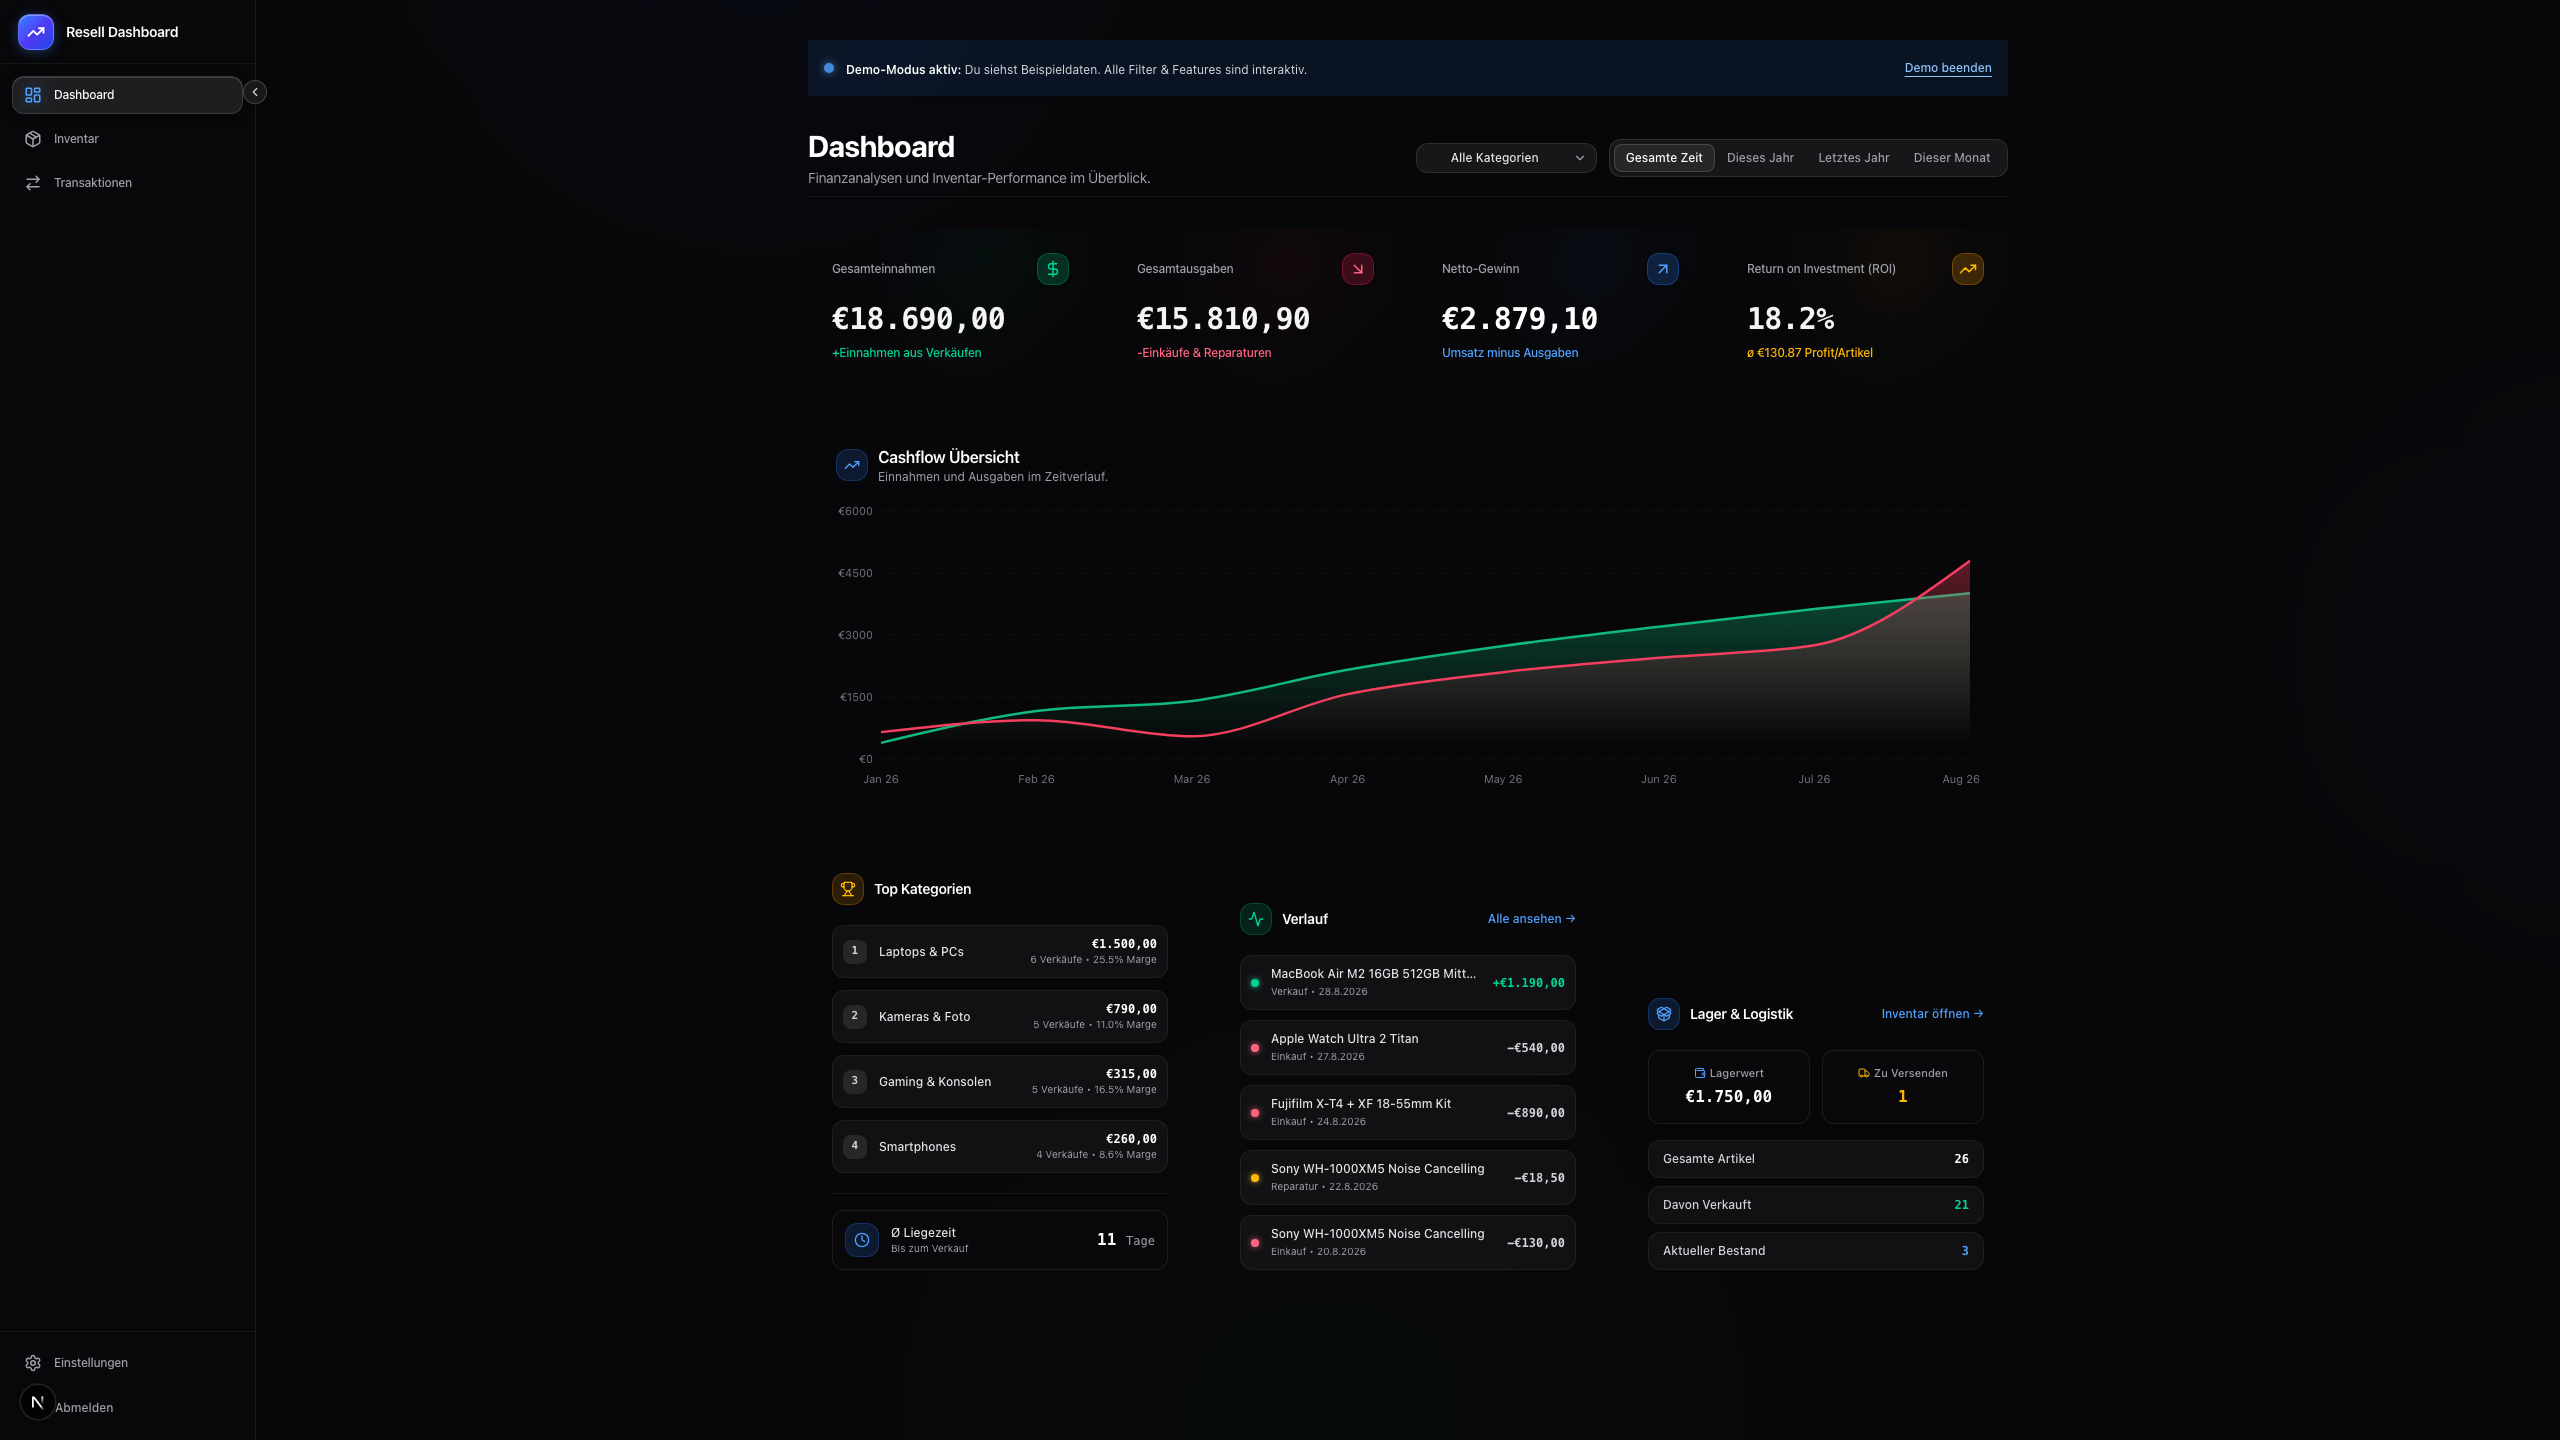
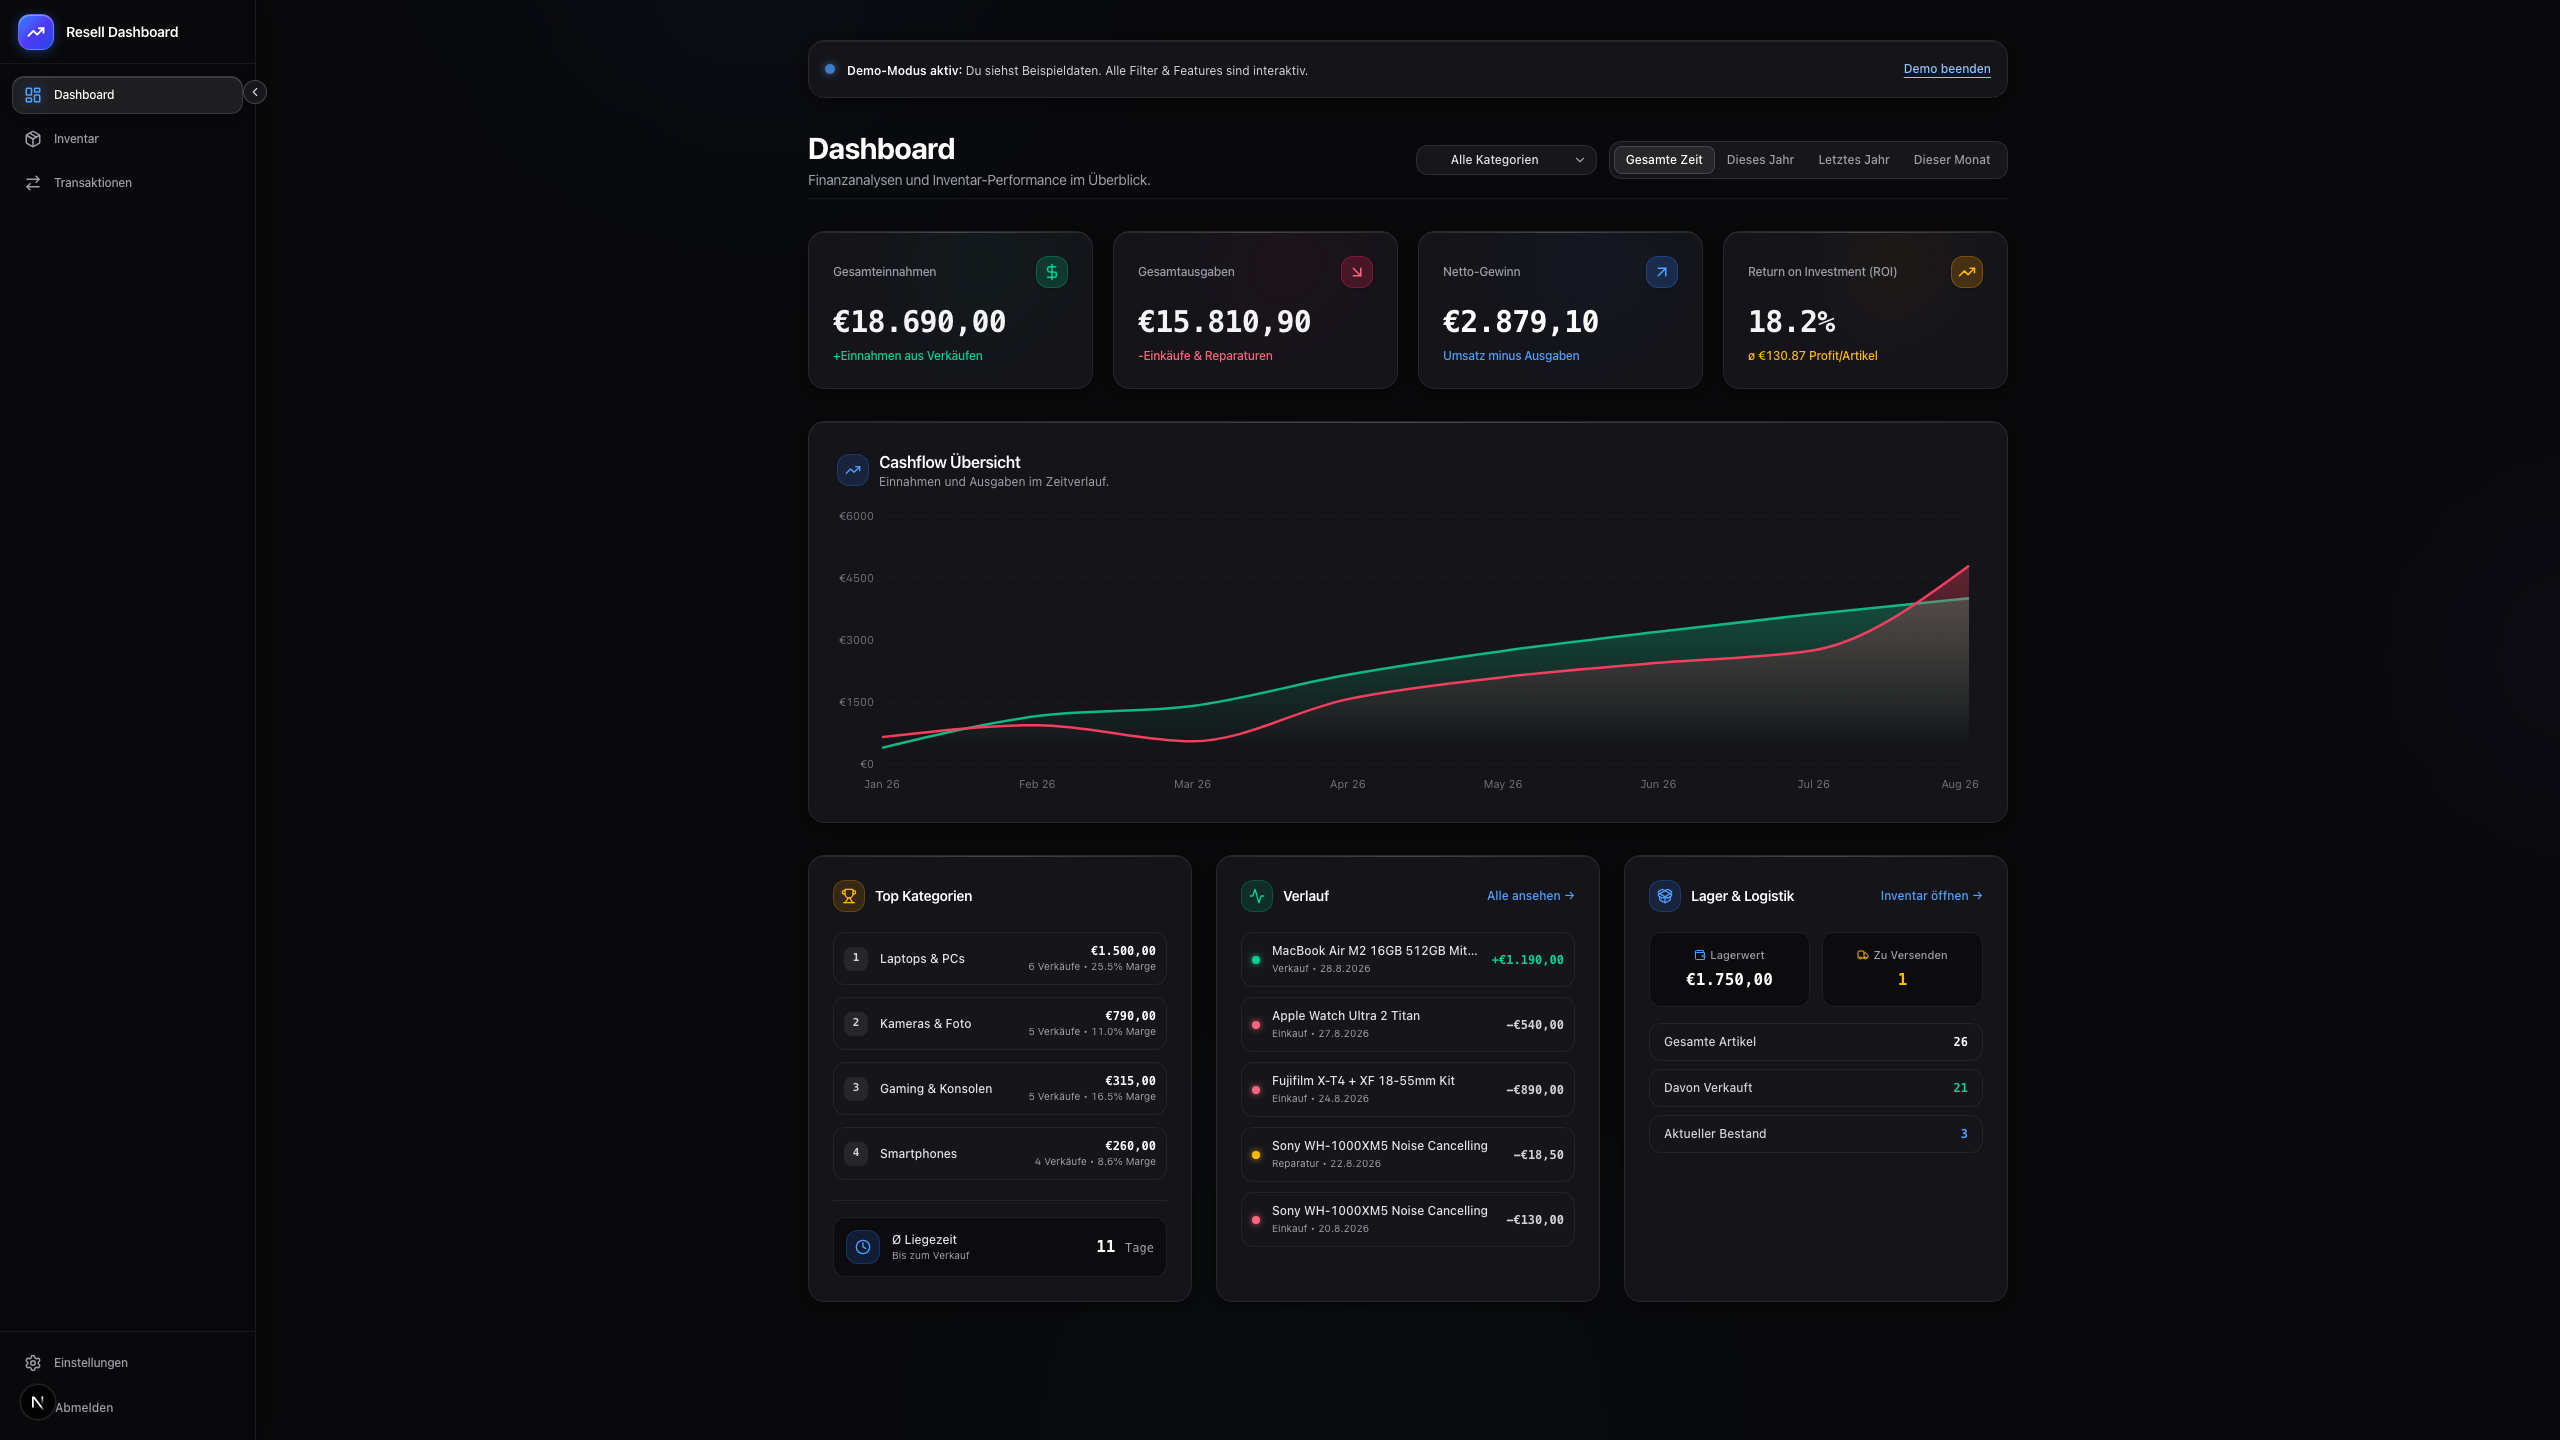
Design Fix: Restore clear card box boundaries, crisp borders, and distinct surface elevation across the dashboard

diff --git a/src/app/globals.css b/src/app/globals.css
@@ -7,17 +7,17 @@
 
 @layer base {
   :root {
-    --background: #050507;
-    --foreground: #f5f5f7;
+    --background: #09090b;
+    --foreground: #f4f4f5;
   }
 
   * {
-    border-color: rgba(255, 255, 255, 0.08);
+    border-color: #27272a;
   }
 
   body {
-    background-color: var(--background);
-    color: var(--foreground);
+    background-color: #09090b;
+    color: #f4f4f5;
     font-family: -apple-system, BlinkMacSystemFont, "SF Pro Text", "SF Pro Display", "Helvetica Neue", Inter, sans-serif;
     font-feature-settings: "cv02", "cv03", "cv04", "cv11", "tnum";
     -webkit-font-smoothing: antialiased;
@@ -28,33 +28,27 @@
 
 /* Custom Apple Glassmorphism and Materials */
 .apple-glass {
-  background: rgba(18, 18, 22, 0.65);
-  backdrop-filter: blur(24px) saturate(180%);
-  -webkit-backdrop-filter: blur(24px) saturate(180%);
-  border: 1px solid rgba(255, 255, 255, 0.08);
+  background: #141419;
+  border: 1px solid #27272a;
 }
 
 .apple-glass-subtle {
-  background: rgba(24, 24, 28, 0.4);
-  backdrop-filter: blur(16px);
-  -webkit-backdrop-filter: blur(16px);
-  border: 1px solid rgba(255, 255, 255, 0.05);
+  background: #18181f;
+  border: 1px solid #27272a;
 }
 
 .apple-card {
   position: relative;
-  background: rgba(20, 20, 24, 0.6);
-  backdrop-filter: blur(20px);
-  -webkit-backdrop-filter: blur(20px);
-  border: 1px solid rgba(255, 255, 255, 0.08);
-  border-radius: 1.25rem;
-  box-shadow: 0 8px 32px 0 rgba(0, 0, 0, 0.37), inset 0 1px 0 0 rgba(255, 255, 255, 0.08);
-  transition: all 0.25s cubic-bezier(0.16, 1, 0.3, 1);
+  background: #141419;
+  border: 1px solid #27272a;
+  border-radius: 1rem;
+  box-shadow: 0 4px 20px -2px rgba(0, 0, 0, 0.6), inset 0 1px 0 0 rgba(255, 255, 255, 0.08);
+  transition: all 0.2s cubic-bezier(0.16, 1, 0.3, 1);
 }
 
 .apple-card:hover {
-  border-color: rgba(255, 255, 255, 0.14);
-  box-shadow: 0 12px 40px 0 rgba(0, 0, 0, 0.45), inset 0 1px 0 0 rgba(255, 255, 255, 0.15);
+  border-color: #3f3f46;
+  box-shadow: 0 8px 30px -4px rgba(0, 0, 0, 0.7), inset 0 1px 0 0 rgba(255, 255, 255, 0.12);
 }
 
 .apple-card-glow {

diff --git a/src/components/LayoutWrapper.tsx b/src/components/LayoutWrapper.tsx
@@ -8,7 +8,7 @@ export function LayoutWrapper({ children }: { children: React.ReactNode }) {
   const isLoginPage = pathname === "/login";
 
   return (
-    <div className="flex h-screen w-full overflow-hidden bg-[#070709] text-zinc-100 selection:bg-blue-500/30 selection:text-blue-200">
+    <div className="flex h-screen w-full overflow-hidden bg-[#09090b] text-zinc-100 selection:bg-blue-500/30 selection:text-blue-200">
       {/* Ambient background glow for translucent depth */}
       <div className="pointer-events-none fixed inset-0 z-0 overflow-hidden">
         <div className="absolute -top-[25%] left-[20%] h-[500px] w-[500px] rounded-full bg-blue-600/[0.04] blur-[128px]" />
